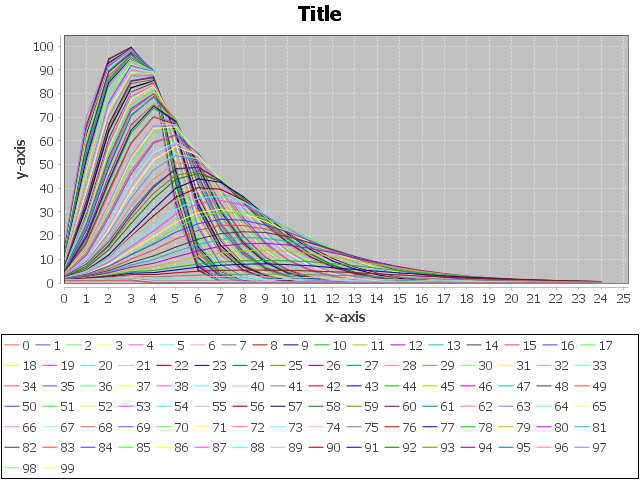
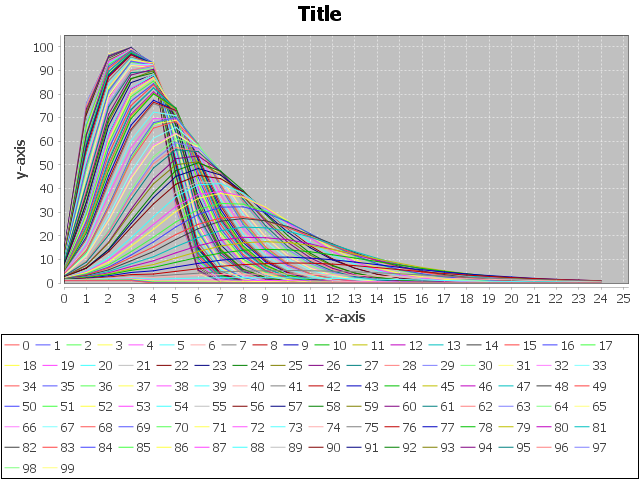
Added speed optimization
Not too much of a difference, but quite noticeable

Changed region(s): [[0.0625, 0.0938, 0.9375, 0.5938], [0.0625, 0.1875, 0.0938, 0.2188]]

diff --git a/src/edu/adg/adgsim/Simulator.java b/src/edu/adg/adgsim/Simulator.java
@@ -37,7 +37,7 @@ public class Simulator implements Runnable {
 
     public void run() {
         //GENERATE GIVEN HISTORY
-        givenHistory = simulate(14);
+        givenHistory = simulate(19);
 
 
         //Step 1. Infect the people that should be originally infected.
@@ -111,6 +111,25 @@ public class Simulator implements Runnable {
 
             while (days.size() < simulationDuration) {
                 //Step 1. Loop through each person, and, if the person is infected, randomly infect non-recovered friends.
+                //Step 2. Loop through each person, and, if the person is infected, add a day to his counter.
+                //Step 3. Loop through each person, and, if the person is infected and his sick counter reached the limit, make the person recover.
+                for (Person p : people) {
+                    if (p.getState() == infected) {
+                        for (Person friend : p.getFriends()) {
+                            if (r(infectionConstant) && friend.getState() != recovered) {
+                                friend.setState(infected);
+                            }
+                        }
+                        p.incrementSickDays();
+                        if (p.getSickDays() == recoveryDays) {
+                            p.resetSickDays();
+                            p.setState(recovered);
+                        }
+                    }
+                }
+
+                /*
+                //Step 1. Loop through each person, and, if the person is infected, randomly infect non-recovered friends.
                 for (Person p : people) {
                     if (p.getState() == infected) {
                         for (Person friend : p.getFriends()) {
@@ -137,6 +156,7 @@ public class Simulator implements Runnable {
                         }
                     }
                 }
+                */
 
                 //Step 4. Save the people into a day.
                 List<Person> peopleToSave = new ArrayList<Person>();
@@ -196,16 +216,20 @@ public class Simulator implements Runnable {
         List<Float> percentageScores = new ArrayList<Float>();
 
         for (List<DayInfo> percentage : histories) {
-            System.out.println("Doing percentage number " + histories.indexOf(percentage) + ".");
+//            System.out.println("Doing percentage number " + histories.indexOf(percentage) + ".");
             float percentageScore = 0;
             for (int i = 0; i < history.size(); i++) {
-                System.out.println("Comparing day " + i + "...");
+//                System.out.println("Comparing day " + i + "...");
                 float valueForThisPercentage = percentage.get(i).getNumSick();
                 float valueForGivenHistory = history.get(i).getNumSick();
                 float difference = Utils.getDifference(valueForThisPercentage, valueForGivenHistory);
                 percentageScore += difference;
             }
             percentageScores.add(percentageScore);
+        }
+
+        for (Float percentageScore : percentageScores) {
+            System.out.println("Variation from " + percentageScores.indexOf(percentageScore) + ": " + percentageScore + ".");
         }
 
         int percentage = percentageScores.indexOf(Collections.min(percentageScores));
